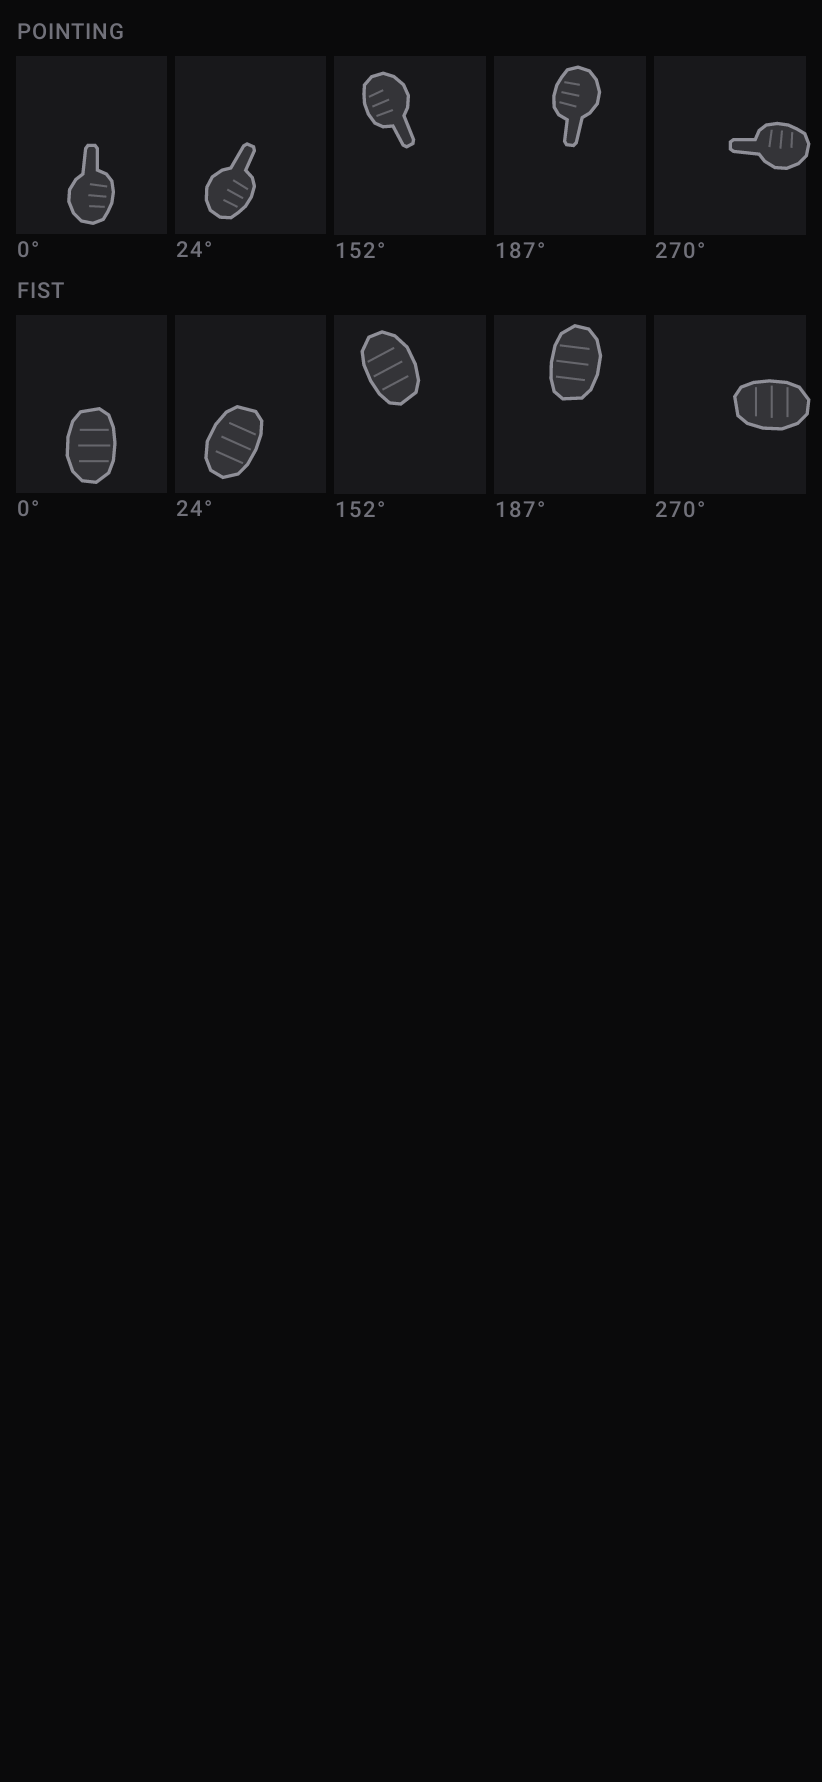
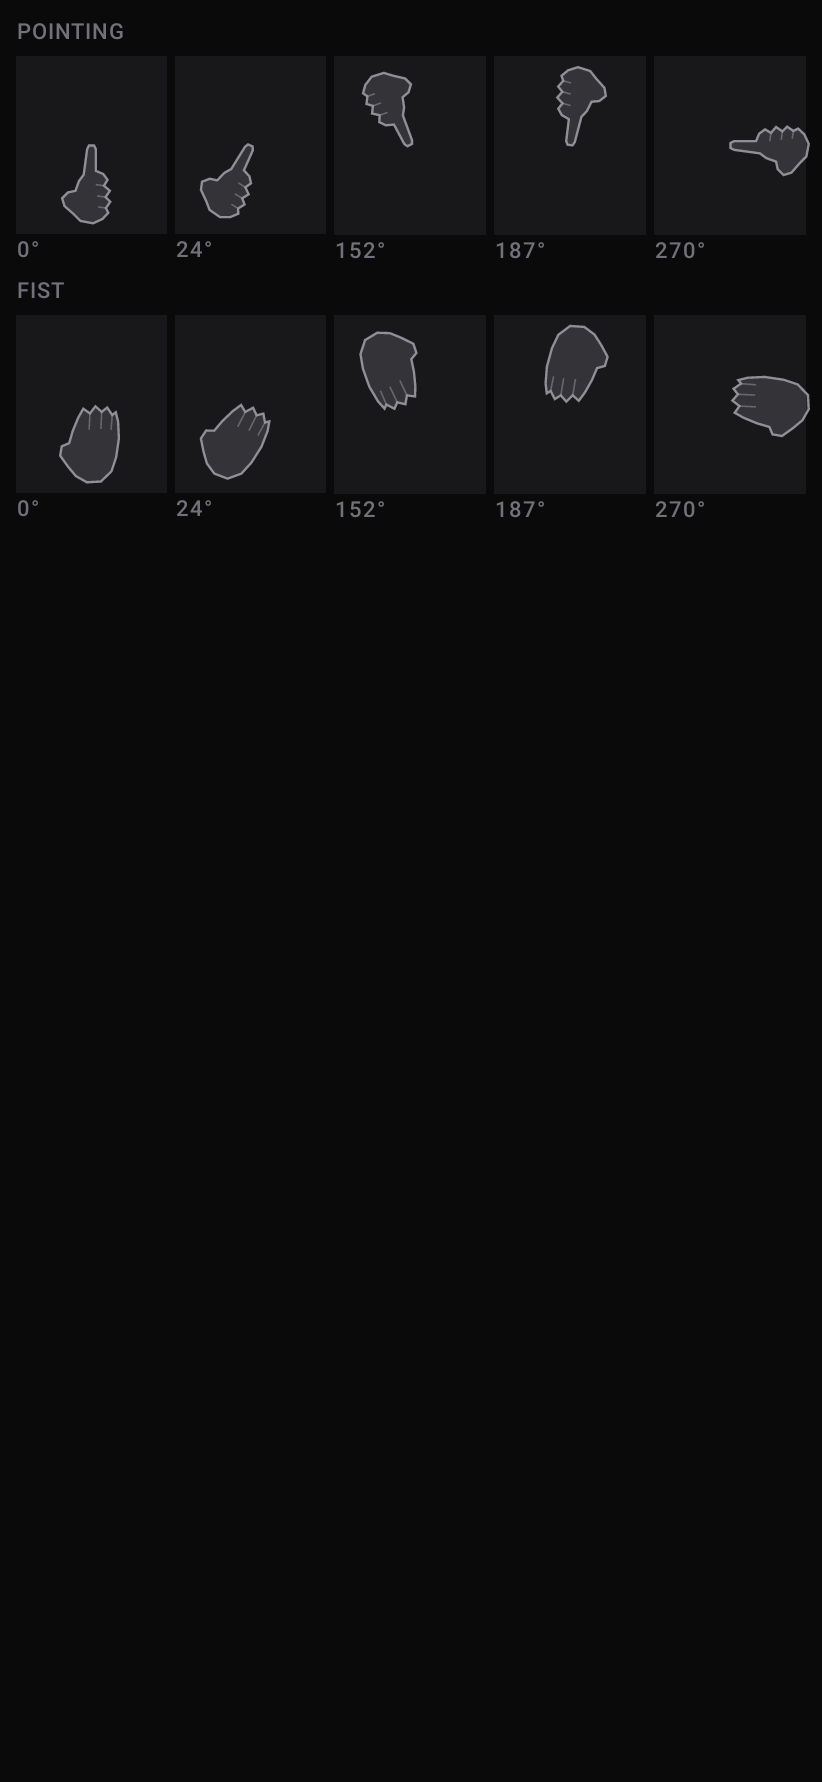
Fix the five diagrams the frame grid showed were wrong
The grid did its job. Two of the eight were fine, one was acceptable, and five
were not:

- FINGERPRINT put the whole hand on top of the print. The print is the subject.
  It now comes in steeply from the upper right, so the fingertip still lands on
  the sensor but the arches beside it stay visible.
- WATER_STICKER had the tray sliding clear of the phone, leaving a gap, so the
  drawing was a box, a dot and an unrelated rectangle. That is the same fault a
  previous rebuild claimed to have fixed; adding a hand pulling from the right
  exposed it again by giving the eye somewhere else to go. Travel halved so the
  tray stops flush with the body.
- LENS_DUST had a hand holding nothing. There is now a torch in it.
- SPEAKER_SEAL had a hand floating beside a row of bars. The phone edge is now
  drawn, so the grille sits on an object and the grip has a subject.
- ACCOUNT_REMOVED reached back over the row above and looked like it was tapping
  that one. Shorter, further right, and allowed to leave by the frame edge:
  three rows a fifth of the height apart have no room for a whole hand between
  them.

diff --git a/feature/guide/src/main/kotlin/com/phoneproof/feature/guide/GuideDiagrams.kt b/feature/guide/src/main/kotlin/com/phoneproof/feature/guide/GuideDiagrams.kt
@@ -371,7 +371,11 @@ private fun DrawScope.drawWaterSticker(progress: Float, ink: Color, warn: Color)
     // The tray, sliding out of the opening and staying attached to it.
     // Short travel on purpose. A longer slide left the tray floating in space with a gap between it
     // and the phone, which read as two unrelated objects rather than one being pulled from the other.
-    val trayX = bodyRight - w * 0.10f + out * w * 0.20f
+    // Travel halved again. At the old distance the tray's near edge cleared the phone entirely and
+    // left a visible gap, so the drawing became a box, a dot and an unrelated rectangle — the exact
+    // fault the rebuild above was meant to have fixed. Adding a hand pulling from the right made it
+    // worse, because the eye now had somewhere else to go. It now stops flush with the body.
+    val trayX = bodyRight - w * 0.10f + out * w * 0.10f
     drawRect(
         color = PhoneProofSurface,
         topLeft = Offset(trayX, slotTop),
@@ -394,8 +398,8 @@ private fun DrawScope.drawWaterSticker(progress: Float, ink: Color, warn: Color)
     // The hand that pulled it, reaching in from the right and travelling with the tray. Without it
     // the tray moves by itself, which is the one thing a SIM tray never does.
     drawHand(
-        tip = Offset(trayX + w * 0.22f, slotTop + slotHeight / 2f),
-        length = h * 0.34f,
+        tip = Offset(trayX + w * 0.21f, slotTop + slotHeight / 2f),
+        length = h * 0.27f,
         angleDegrees = 270f,
         ink = ink,
     )
@@ -405,6 +409,14 @@ private fun DrawScope.drawWaterSticker(progress: Float, ink: Color, warn: Color)
 private fun DrawScope.drawSpeakerSeal(progress: Float, ink: Color, accent: Color) {
     val w = size.width
     val h = size.height
+
+    // The bottom edge of the phone, so the grille sits on something and the hand has something to
+    // hold. Without it this was the least physical of the eight: a row of bars, an arc, and no object.
+    drawRect(
+        color = ink.copy(alpha = 0.14f),
+        topLeft = Offset(w * 0.24f, h * 0.46f),
+        size = Size(w * 0.54f, h * 0.21f),
+    )
 
     // The grille: a row of slots.
     val slots = 7
@@ -457,16 +469,16 @@ private fun DrawScope.drawSpeakerSeal(progress: Float, ink: Color, accent: Color
 
     // The hand holding the phone up to the mouth.
     //
-    // The one diagram where the hand is not the actor — the mouth is — so it holds rather than does,
-    // and it is placed out at the left edge. A grille and a pair of lips floating unsupported was
-    // the least physical drawing of the eight; something has to be bringing them together.
+    // The one diagram where the hand is not the actor — the mouth is — so it holds rather than does.
+    // It needs something to hold, though: on its own at the edge of the frame it was a hand floating
+    // beside a row of bars. The phone edge below carries the grille and gives the grip a subject.
     drawHand(
-        tip = Offset(w * 0.20f, h * 0.50f),
+        tip = Offset(w * 0.255f, h * 0.565f),
         length = h * 0.30f,
-        angleDegrees = 24f,
+        angleDegrees = 90f,
         ink = ink,
         pointing = false,
-        alpha = 0.75f,
+        alpha = 0.8f,
     )
 }
 
@@ -520,10 +532,25 @@ private fun DrawScope.drawLensDust(progress: Float, ink: Color, warn: Color) {
     // It enters from the top edge and is deliberately allowed to run off it. A hand cropped by the
     // frame reads as a hand coming into shot; a whole hand shrunk to fit would be a mitten floating
     // above a lens, and the beam is what matters here.
+    // The torch itself. Without it the hand held nothing and the beam had no source, so the drawing
+    // was a hand, a circle and a grey wedge between them.
+    drawRect(
+        color = ink.copy(alpha = 0.30f),
+        topLeft = Offset(beamX + w * 0.005f, h * 0.055f),
+        size = Size(w * 0.075f, h * 0.155f),
+    )
+    drawRect(
+        color = ink,
+        topLeft = Offset(beamX + w * 0.005f, h * 0.055f),
+        size = Size(w * 0.075f, h * 0.155f),
+        style = Stroke(width = h * 0.012f),
+    )
+
+    // The hand wrapped round it, low enough that the barrel shows above the knuckles.
     drawHand(
-        tip = Offset(beamX + w * 0.05f, h * 0.13f),
-        length = h * 0.30f,
-        angleDegrees = 168f,
+        tip = Offset(beamX + w * 0.042f, h * 0.20f),
+        length = h * 0.26f,
+        angleDegrees = 174f,
         ink = ink,
         pointing = false,
     )
@@ -564,10 +591,15 @@ private fun DrawScope.drawFingerprint(progress: Float, ink: Color, accent: Color
     // `press` moves the whole hand rather than only the tip, so the finger arrives at the sensor
     // instead of stretching towards it.
     val press = (1f - kotlin.math.abs(wave(progress))) * h * 0.05f
+    // Comes in steeply from the upper right rather than straight down.
+    //
+    // Straight down put the whole hand on top of the print, and the print is the subject: the render
+    // showed a hand and a ripple with the arches hidden behind them. Approaching at an angle lands
+    // the fingertip on the sensor while leaving the arches to the left of it visible.
     drawHand(
-        tip = Offset(cx, cy - h * 0.075f - press),
-        length = h * 0.42f,
-        angleDegrees = 187f,
+        tip = Offset(cx, cy - h * 0.05f - press),
+        length = h * 0.36f,
+        angleDegrees = 132f,
         ink = ink,
     )
 }
@@ -640,10 +672,15 @@ private fun DrawScope.drawAccountRemoved(progress: Float, ink: Color, warn: Colo
     // Placed to the right of the crossed-out avatar rather than on it: the cross is the outcome and
     // must stay visible. It descends as the strike completes, so the tap and the result are one
     // motion rather than two things that happen to be on screen together.
+    // Shorter and further right than first drawn, and allowed to run off the frame.
+    //
+    // At full length the hand reached back across the row above and looked as though it were tapping
+    // that one instead. Three rows twenty percent of the height apart leave no room for a whole hand
+    // between them, so it leaves by the edge rather than shrinking to fit.
     drawHand(
-        tip = Offset(w * 0.66f, y + h * 0.055f - (1f - strike) * h * 0.10f),
-        length = h * 0.34f,
-        angleDegrees = 196f,
+        tip = Offset(w * 0.72f, y + h * 0.055f - (1f - strike) * h * 0.09f),
+        length = h * 0.25f,
+        angleDegrees = 208f,
         ink = ink,
     )
 }
